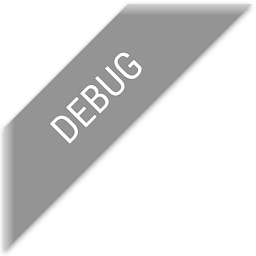
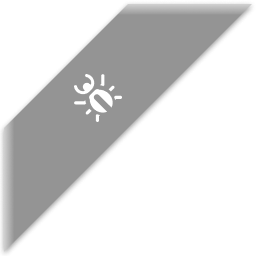
upd confirm screen

Changed region(s): [[0.1875, 0.1875, 0.5625, 0.5625]]

diff --git a/Assets/Scripts/UI/LevelConfirmPanel.cs b/Assets/Scripts/UI/LevelConfirmPanel.cs
@@ -20,6 +20,7 @@ public class LevelConfirmPanel : MonoBehaviour
     public Image[] stars;
     public TMP_Text difficultyText;
     public TMP_Text headerText;
+    public TMP_Text boosterHeaderText;
     private int highScore;
 
     [Header("Stars")]
@@ -58,9 +59,6 @@ public class LevelConfirmPanel : MonoBehaviour
     private Color easyBackColor = new Color(0.698f, 0.651f, 0.565f, 1f); // #91B3A1
     private Color mediumBackColor = new Color(0.569f, 0.627f, 0.702f, 1f); // #91A0B3
     private Color hardBackColor = new Color(0.651f, 0.569f, 0.702f, 1f); // #A691B3
-
-
-
 
     void OnEnable()
     {
@@ -116,11 +114,19 @@ public class LevelConfirmPanel : MonoBehaviour
         b1Img.color = Color.black;
         b11Img.color = Color.black;
 
+        Debug.Log(activeLevels);
+
+        //header
+        if(activeLevels <= 9)
+            boosterHeaderText.text = "Boosters not available";
+
         //open busters after opened levels 19 for colorbomb
         if (activeLevels > 19)
         {
             buster01.addBusterButton.interactable = true;
             b1Img.color = Color.white;
+
+            boosterHeaderText.text = "Select boosters";
         }
 
         //9 for line bomb
@@ -128,7 +134,9 @@ public class LevelConfirmPanel : MonoBehaviour
         {
             buster11.addBusterButton.interactable = true;
             b11Img.color = Color.white;
+            boosterHeaderText.text = "Select booster";
         }
+
     }
 
     private void Update()

diff --git a/Assets/Scripts/Game/ScoreManager.cs b/Assets/Scripts/Game/ScoreManager.cs
@@ -75,10 +75,13 @@ public class ScoreManager : MonoBehaviour
 
             // Calculate new position considering the image width
             float imageWidth = rectTransformStar.rect.width/2;
+            Debug.Log(imageWidth);
+
             Vector3 currentPosition = rectTransformStar.localPosition;
 
             // Update the position of the star on the progress bar
-            float x = starPosition[i] + imageWidth;
+            float x = starPosition[i];
+
             Vector3 newPos = new Vector3(x, currentPosition.y, currentPosition.z);
 
             if (!float.IsNaN(newPos.x) && !float.IsNaN(newPos.y) && !float.IsNaN(newPos.z))
@@ -116,27 +119,6 @@ public class ScoreManager : MonoBehaviour
         for (int i = 0; i < numberStars; i++)
         {
             levelStars[i].sprite = levelStarsSpite[0];
-        }
-
-        if (gameDataClass != null)
-        {
-/*            //save score
-            int hiScore = gameDataClass.saveData.highScore[levelInList];
-
-            if (score > hiScore)
-            {
-                gameDataClass.saveData.highScore[levelInList] = score;
-            }*/
-
-            //save stars
-/*            int currentStarsCount = gameDataClass.saveData.stars[levelInList];
-
-            if (numberStars > currentStarsCount)
-            {
-                gameDataClass.saveData.stars[levelInList] = numberStars;
-            }*/
-
-            //gameDataClass.SaveToFile();
         }
 
         //progress bar with stars
